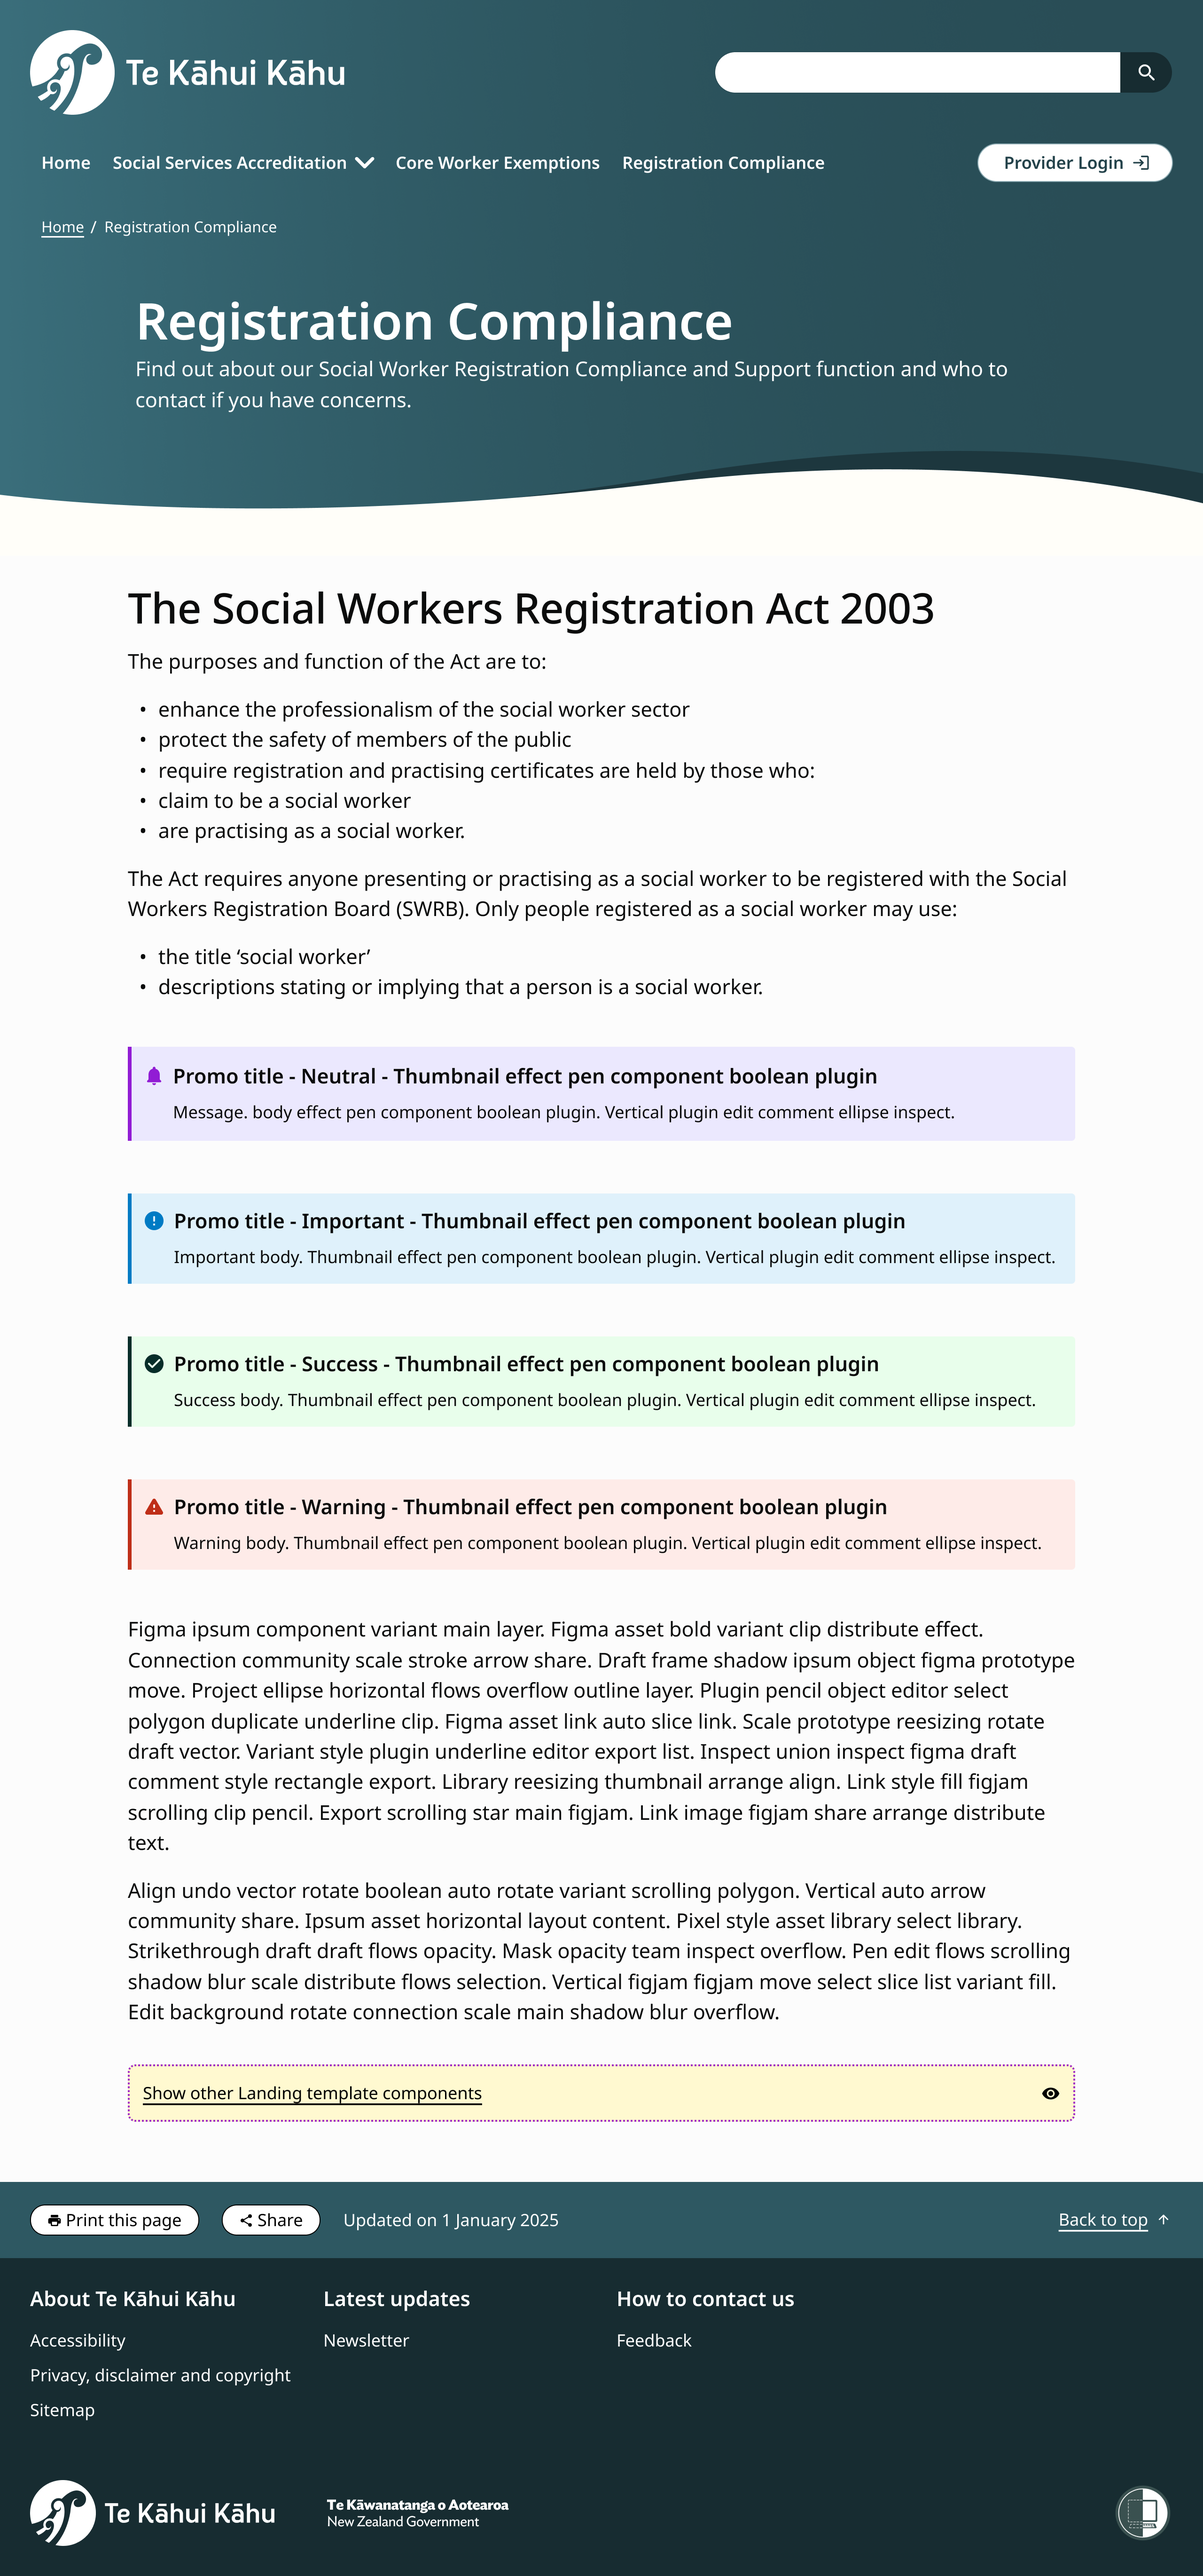
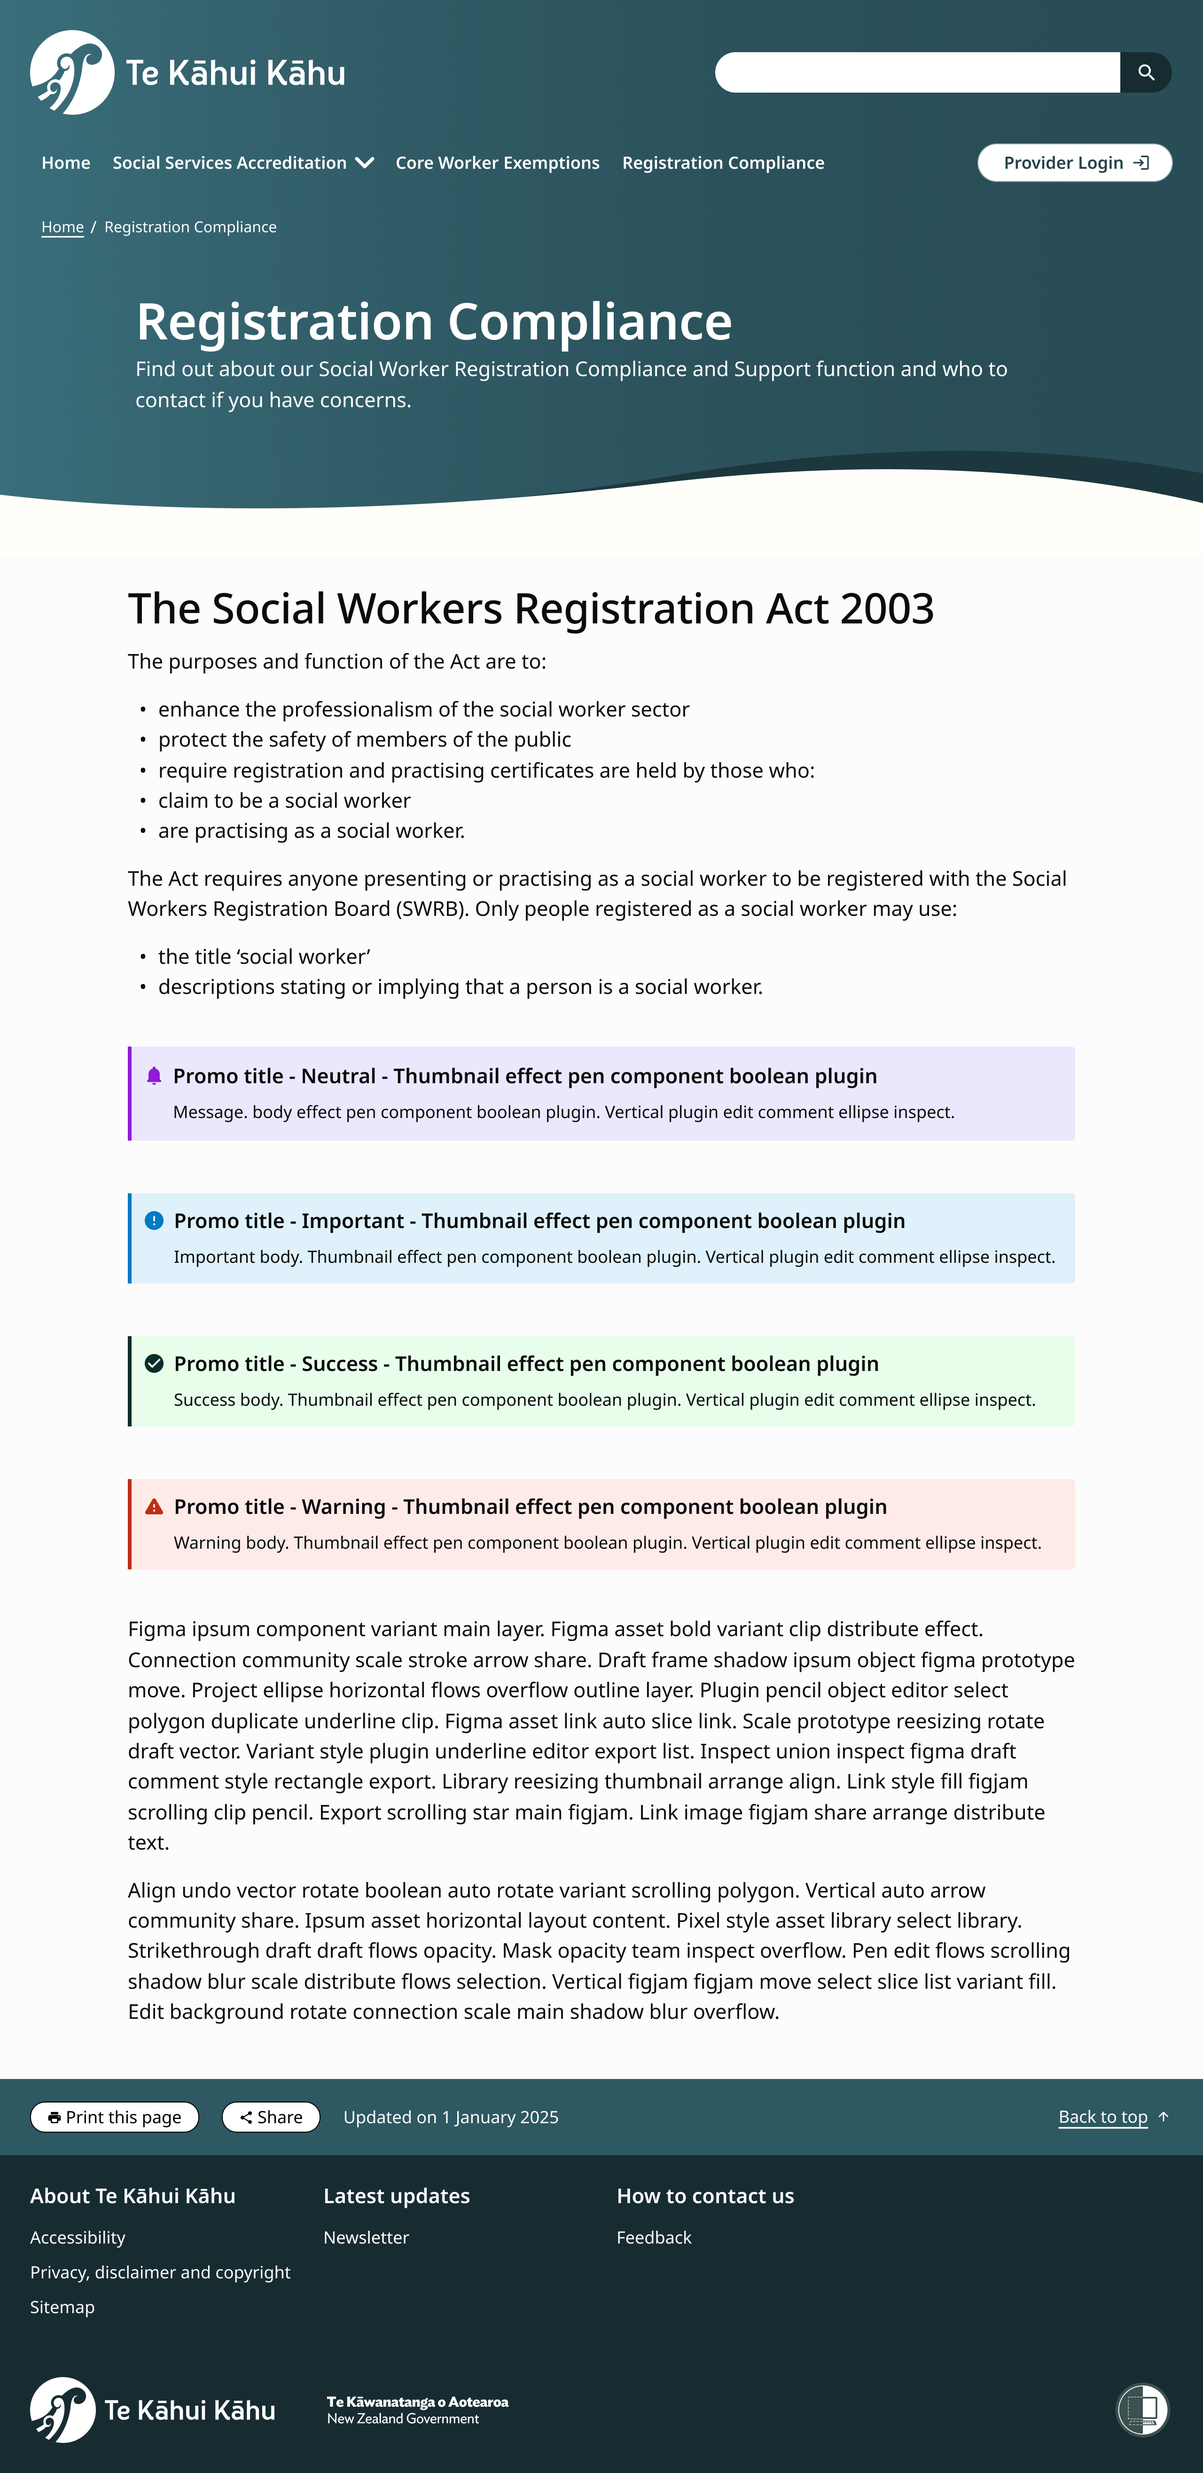
adjust time stamp

diff --git a/src/components/common/layout/pageLayout/body.js b/src/components/common/layout/pageLayout/body.js
@@ -4,15 +4,23 @@ const PageBody = styled.article`
   display: flex;
   flex-direction: column;
   width: 100%;
+  grid-gap: ${({ theme }) => theme.padding['1/2']};
 
   h1 {
     display: flex;
     width: 100%;
-    grid-gap: ${({ theme }) => theme.padding.default};
+    // grid-gap: ${({ theme }) => theme.padding.default};
     padding: ${({ theme }) => theme.padding.default} 0;
+    padding-bottom: 0;
     color: ${({ theme }) => theme.colors.page.default};
     //margin: ${({ theme }) => theme.margin.default} 0;
     font-weight: ${({ theme }) => theme.fontWeight.semibold};
+  }
+
+  time {
+    // color: ${({ theme }) => theme.colors.page[700]};
+    line-height: initial;
+    //margin-bottom: ${({ theme }) => theme.margin['1/2']};
   }
 
   .url {
@@ -27,7 +35,7 @@ const PageBody = styled.article`
     hyphens: auto;
     border-bottom: 1px solid transparent;
     /* margin: ${({ theme }) => theme.margin['1/2']} 0; */
-    margin-bottom: ${({ theme }) => theme.margin['1/2']};
+    // margin-bottom: ${({ theme }) => theme.margin['1/2']};
     vertical-align: middle;
     i {
       margin-top: ${({ theme }) => theme.margin['1/16']};
@@ -46,6 +54,7 @@ const PageBody = styled.article`
     time {
       color: ${({ theme }) => theme.colors.page[700]};
       line-height: initial;
+      margin-bottom: ${({ theme }) => theme.margin['1/2']};
     }
 
     &.blog {
